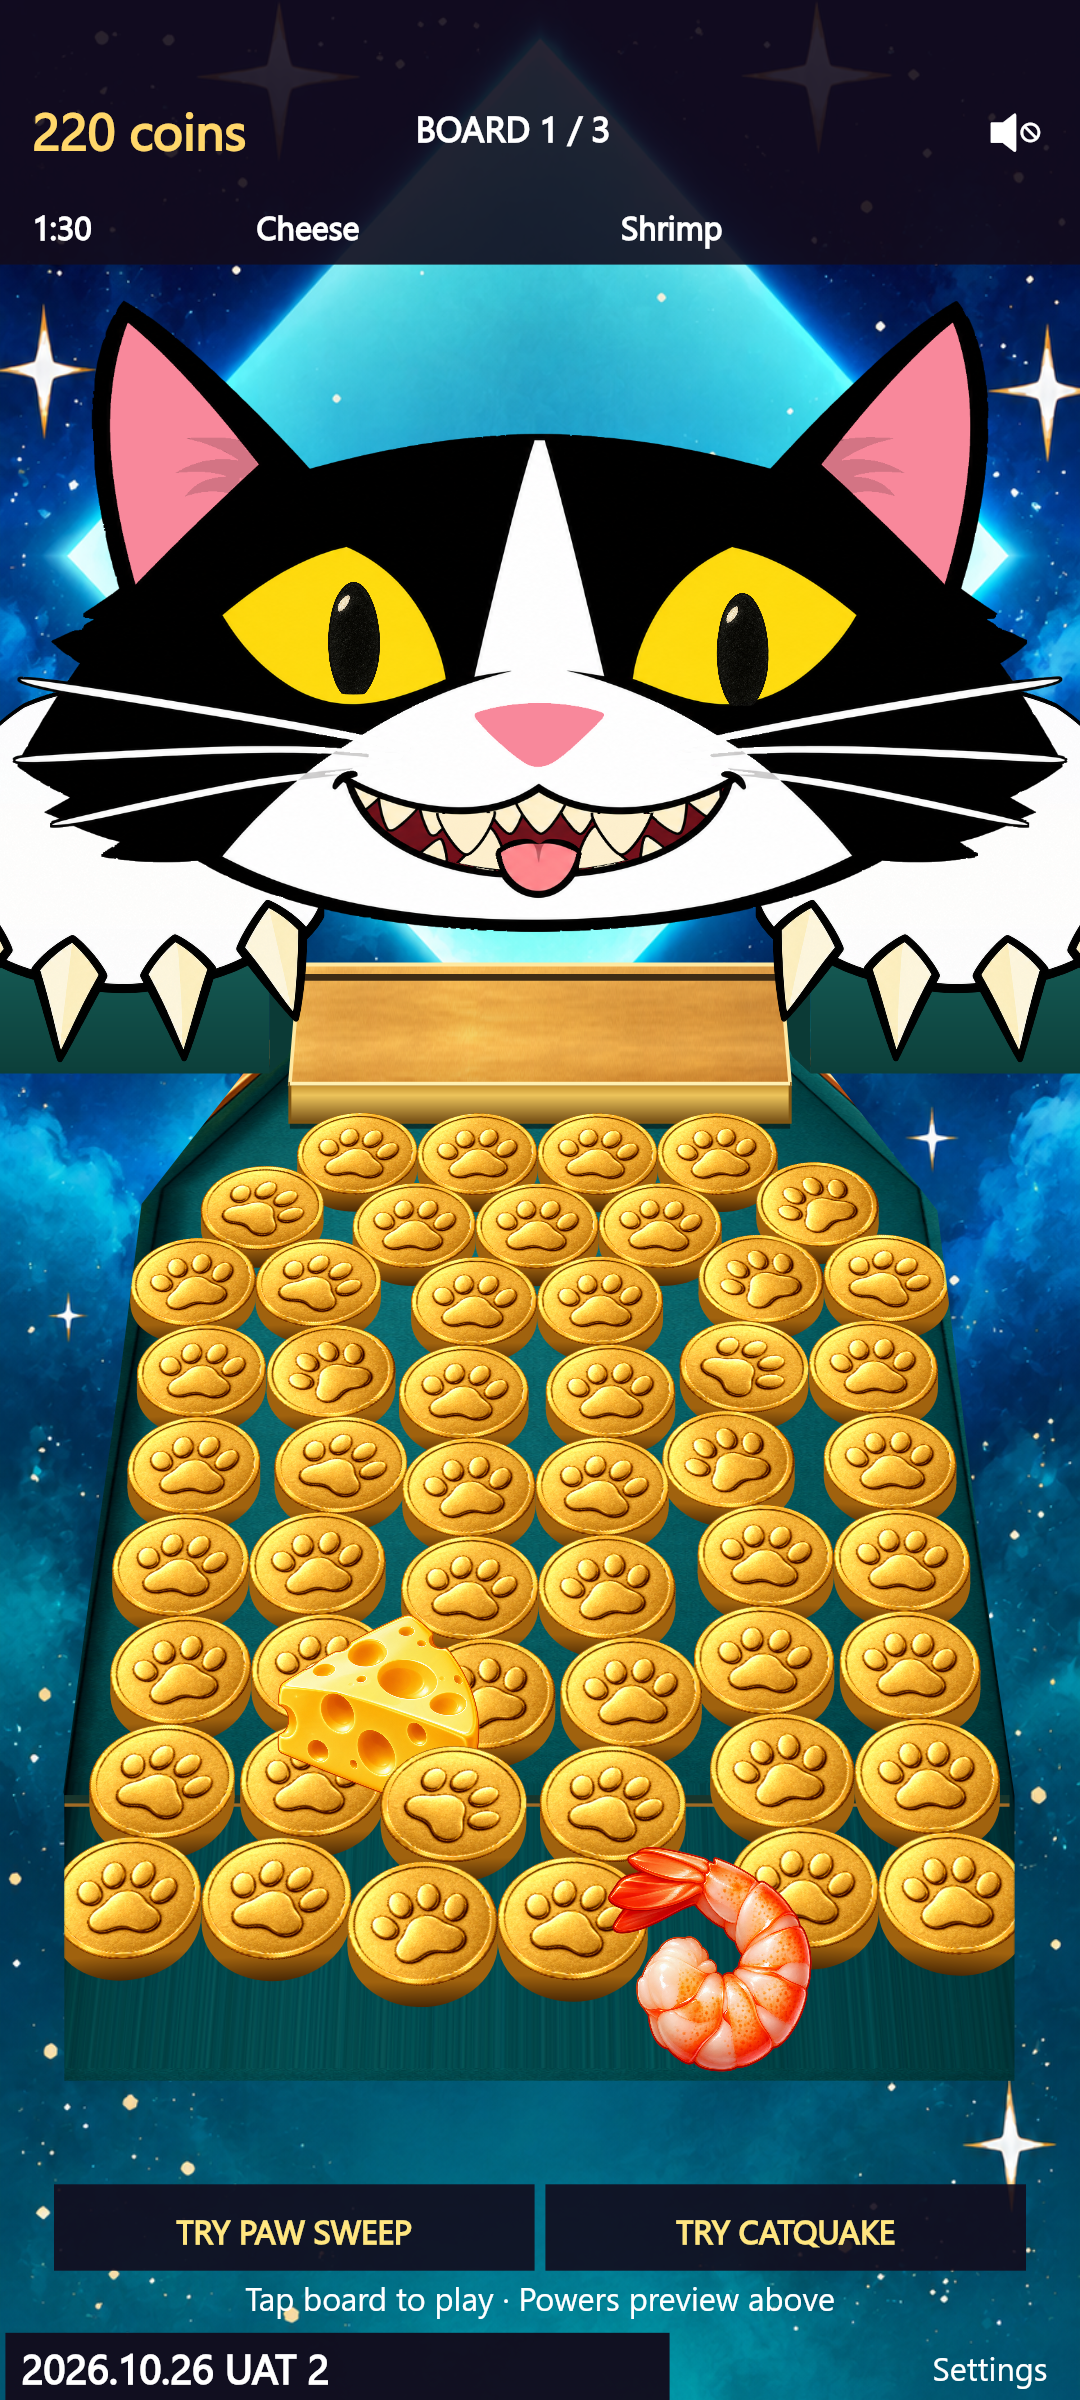
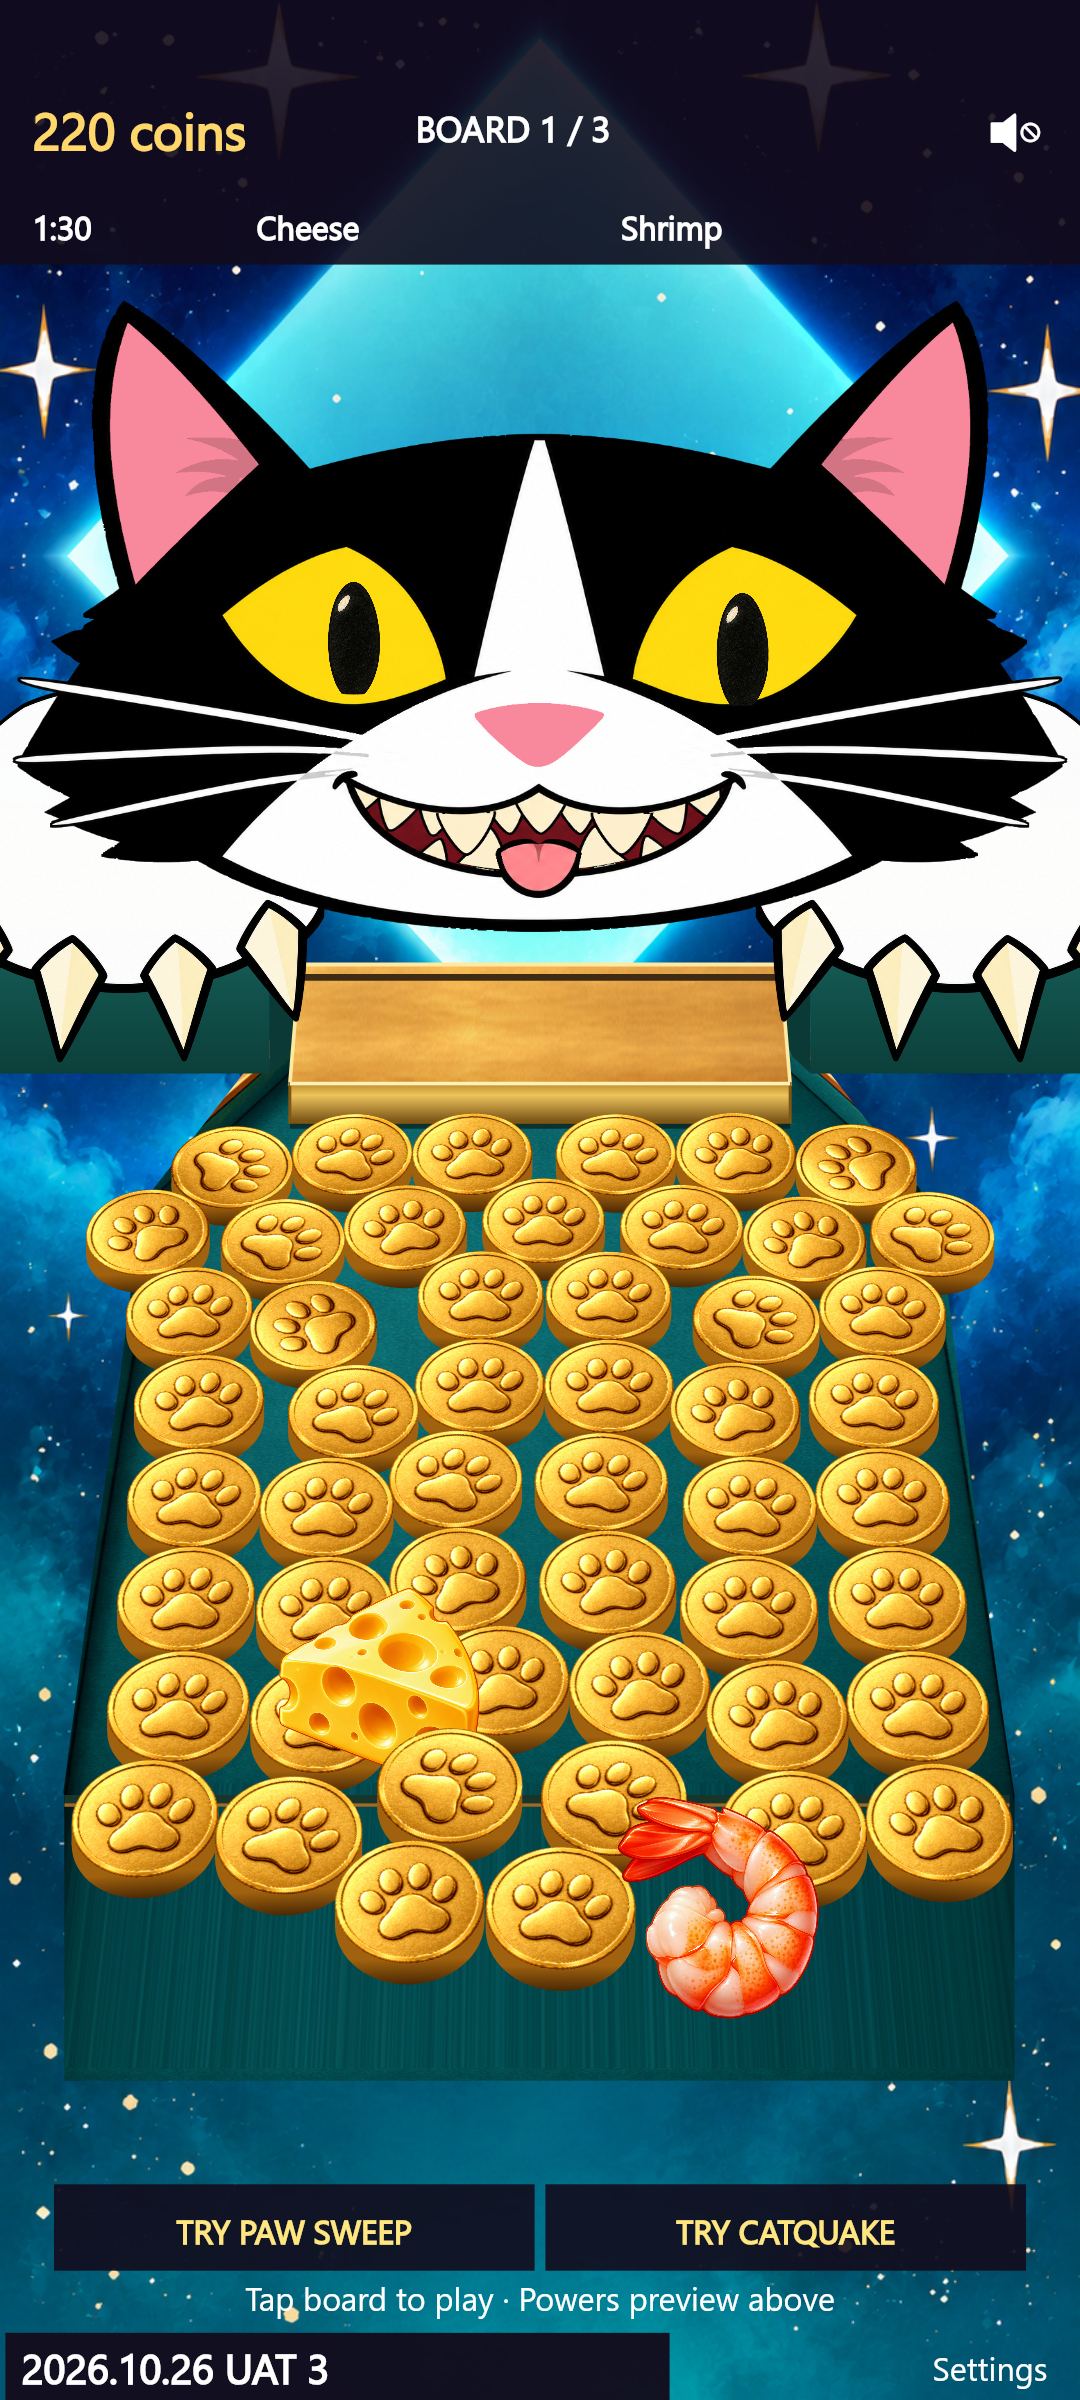
CP-21: UAT 3 - coins always whole, side gutters, rescue squeezed coins
Coins are no longer masked by the old picture's felt outline, so they
stay whole on the ledge and at the sides. Coins can slide over the left
and right edges and hang off them; a low invisible lip keeps side
losses to about 1 in 100 (pure physics lost over half). A coin squeezed
down through the table by the ledge is put back on top.

Changed region(s): [[0.0611, 0.4375, 0.9472, 0.875], [0.275, 0.9688, 0.3056, 1.0]]

diff --git a/index.html b/index.html
@@ -200,7 +200,7 @@ let holding = false, holdPos = aim, taps = [], dropTimer = 0, saveTimer = 0, las
 // test-build readout at the bottom of the screen: physics time per step (ms) and frames per second, smoothed
 const perf = { step: 0, fps: 60 };
 // when this version was published (publish_game.ps1 fills it in), shown in the readout
-const BUILD = '2026.10.26 UAT 2';
+const BUILD = '2026.10.26 UAT 3';
 
 function initPhysics() {
   // the table tilts gently down toward the player (TILT_DEG): coins at rest stay put, but a push moves them
@@ -216,12 +216,12 @@ function initPhysics() {
   const box = (hx, hy, hz, x, h, y, fr) => world.createCollider(
     RAPIER.ColliderDesc.cuboid(hx * M, hy * M, hz * M).setTranslation(x * M, h * M, y * M).setFriction(fr), fixed);
   const halfW = (T.R - T.L) / 2;
-  box(halfW + 40, 10, (T.FRONT + 100) / 2, 200, -10, (T.FRONT - 100) / 2, TABLE_FRICTION); // table top, open at the front
+  box(halfW + 40, 10, (FUNNEL_D2 + 100) / 2, 200, -10, (FUNNEL_D2 - 100) / 2, TABLE_FRICTION); box(halfW, 10, (T.FRONT - FUNNEL_D2) / 2, 200, -10, (T.FRONT + FUNNEL_D2) / 2, TABLE_FRICTION); // table top: as before beside the funnel walls, then (CP-21) ending at the open side edges
   // side walls (CP-21 funnel): straight beside the pusher, a slant, then straight to the front
   const wall=(x0,y0,x1,y1,side)=>{const len=Math.hypot(x1-x0,y1-y0),a=Math.atan2(x1-x0,y1-y0),nx=Math.cos(a)*side,nz=-Math.sin(a)*side;
    world.createCollider(RAPIER.ColliderDesc.cuboid(10*M,200*M,(len/2+2)*M).setTranslation(((x0+x1)/2+nx*10)*M,190*M,((y0+y1)/2+nz*10)*M)
     .setRotation({x:0,y:Math.sin(a/2),z:0,w:Math.cos(a/2)}).setFriction(0.2),fixed);};
-  for(const s of [-1,1]){wall(200+s*FUNNEL_BACK,-100,200+s*FUNNEL_BACK,FUNNEL_D1,s);wall(200+s*FUNNEL_BACK,FUNNEL_D1,200+s*halfW,FUNNEL_D2,s);wall(200+s*halfW,FUNNEL_D2,200+s*halfW,T.FRONT+100,s);}
+  for(const s of [-1,1]){wall(200+s*FUNNEL_BACK,-100,200+s*FUNNEL_BACK,FUNNEL_D1,s);wall(200+s*FUNNEL_BACK,FUNNEL_D1,200+s*halfW,FUNNEL_D2,s);}/* CP-21: no side walls past the funnel (open gutters) */for(const s of [-1,1]){const x=200+s*(halfW+COIN_R*0.9),hh=2,len=T.FRONT+100-FUNNEL_D2;world.createCollider(RAPIER.ColliderDesc.cuboid(2*M,hh*M,len/2*M).setTranslation(x*M,hh*M,(FUNNEL_D2+len/2)*M).setFriction(0.2),fixed);} /* CP-21: low side lip */
   box(halfW + 40, 150, 12, 200, TONGUE_H + 150, LEDGE_BACK - 12, 0.2); // upper ledge backstop prevents coins retreating into the throat
   tongue = world.createRigidBody(RAPIER.RigidBodyDesc.kinematicPositionBased()
     .setTranslation(200 * M, TONGUE_H / 2 * M, (pusherY - TONGUE_LEN / 2) * M));
@@ -835,6 +835,8 @@ function collect(id) {
 
 // A coin that went over the front edge: into the bucket (won) or past it at the corners (lost).
 function fallOff(b, x) {
+ {const t=b.rb.translation(),z=t.z/M;if(Math.abs(x-200)<=(T.R-T.L)/2-2&&z<T.FRONT-30){b.rb.setTranslation({x:(200+(x-200)*.6)*M,y:30*M,z:Math.max(z,PUSH_MAX+COIN_R+4)*M},true);b.rb.setLinvel({x:0,y:0,z:0},true);b.rb.setAngvel({x:0,y:0,z:0},true);return;}} // CP-21: rescue a coin squeezed through the table
+ if(Math.abs(x-200)>(T.R-T.L)/2-2&&b.rb.translation().z/M<T.FRONT-4)return gutterOff(b,x); // CP-21: off a side
  if(board.quakeStats&&time<=board.quakeStats.until&&['coin','silver'].includes(b.kind))board.quakeStats.fallen++;
  if(!b.boardTarget)recordedSfx.edge();
  const p=proj(x,T.FRONT);
@@ -849,6 +851,12 @@ function fallOff(b, x) {
  if(board.collected.length===BOARD.targets.length)finishBoard('won');
 }
 
+// CP-21: a coin (or prize) that drops off a side edge is lost: it falls out of sight beside the table and does not pay.
+function gutterOff(b,x){
+ const t=b.rb.translation(),at=screenOf(t.x/M,t.z/M,t.y/M);
+ const rotation={...b.rb.rotation()};falling.push({x:at.x,y:at.y,vx:(x<200?-40:40),vy:60,kind:b.kind,id:b.id,won:false,t:0,s:at.s,gutter:true,__screenStart:at,__sourceX:at.x,__sourceY:at.y,__rotation:rotation});
+ removeCoin(b);
+}
 // Lightning coin: a flash, a thunder crack, and the whole machine shakes for SHAKE_SEC.
 const SHAKE_SEC = 1.6, SHAKE_KICK = 0.22; // kick: speed (m/s) of each jolt
 // Coin shower: SHOWER_COINS free coins tumble out of the mouth across the tongue.
@@ -1959,7 +1967,7 @@ function __cachedBoardPath(){
   for(let i=__felt.length-1;i>=0;i-=58){const v=__felt[i];p.lineTo(v[2]-1,v[0]);}p.lineTo(__felt[0][2]-1,__felt[0][0]);p.closePath();__boardClipPath=p;
  }return __boardClipPath;
 }
-function __cachedSkyPath(){if(!__skyClipPath){const p=new Path2D(__cachedBoardPath());p.rect(198-__slotHalf,-1000,2*__slotHalf+4,1228);__skyClipPath=p;}return __skyClipPath;}
+function __cachedSkyPath(){if(!__skyClipPath){const p=new Path2D();p.rect(-1000,218,3000,3000);p.rect(198-__slotHalf,-1000,2*__slotHalf+4,1228);__skyClipPath=p;}return __skyClipPath;}
 function __clipDelivery(){ctx.clip(__cachedSkyPath());}
 const __oldBody=drawBody;
 function __inputInFlight(b){
@@ -1974,7 +1982,7 @@ let __boardLayer=null,__railMatte=null,__matteRatio=0,__matteH=0;
 function __drawBoardBodies(){
  const ratio=scale*devicePixelRatio;
  if(!__boardLayer||__boardLayer.width!==cv.width||__boardLayer.height!==cv.height){__boardLayer=document.createElement('canvas');__boardLayer.width=cv.width;__boardLayer.height=cv.height;}
- if(!__railMatte||ratio!==__matteRatio||H!==__matteH){__matteRatio=ratio;__matteH=H;__boardClipPath=null;__skyClipPath=null;__railMatte=document.createElement('canvas');__railMatte.width=Math.ceil(W*ratio);__railMatte.height=Math.ceil(H*ratio);const q=__railMatte.getContext('2d');q.setTransform(ratio,0,0,ratio,0,0);q.fillStyle='#fff';q.fill(__cachedBoardPath());}
+ if(!__railMatte||ratio!==__matteRatio||H!==__matteH){__matteRatio=ratio;__matteH=H;__boardClipPath=null;__skyClipPath=null;__railMatte=document.createElement('canvas');__railMatte.width=Math.ceil(W*ratio);__railMatte.height=Math.ceil(H*ratio);const q=__railMatte.getContext('2d');q.setTransform(ratio,0,0,ratio,0,0);q.fillStyle='#fff';q.fillRect(-1000,218,3000,3000);} // CP-21: coins whole everywhere in front of the slot
  const main=ctx,layer=__boardLayer.getContext('2d');layer.imageSmoothingEnabled=true;layer.imageSmoothingQuality='low';layer.setTransform(1,0,0,1,0,0);layer.clearRect(0,0,__boardLayer.width,__boardLayer.height);layer.setTransform(...__camera);layer.globalAlpha=1;
  ctx=layer;__activeCoinClip='felt';
  try{for(const b of bodies)if(!b.danceDown)drawBody(b);layer.globalCompositeOperation='destination-in';layer.drawImage(__railMatte,0,0,W,H);}

diff --git a/tickets/CP-21.md b/tickets/CP-21.md
@@ -1,6 +1,38 @@
 # CP-21 Board layout like iBear (mockups)
 
-Status: **Published to UAT: 2026.10.26 UAT 2 / APK4, numeric 20261026113204**, on Jenny's "yes" (Oct 26). Phone UAT pending. UAT 1 (20261026100613, "let's get this in UAT") failed phone UAT on the ledge; see "UAT 2" below. CP-21 became the layout lock (Oct 26); locked numbers are in SPEC.md, "Locked layout (CP-21)". Everything from "Baseline and method" down is the earlier Codex mockup round (Oct 19), kept as history.
+Status: **Published to UAT: 2026.10.26 UAT 3 / APK4, numeric 20261026134357**, on Jenny's "Let me have some time with all of this in UAT" (Oct 26). Phone UAT pending. UAT 1 (20261026100613) and UAT 2 (20261026113204) are covered below.
+
+## UAT 3 (Oct 26)
+**Jenny's phone UAT of UAT 2:**
+- "It looks really good now."
+- Coins still disappeared a bit: cut off on the ledge ([screenshot](../Screenshots/cp21-uat2-coins-cut-on-ledge.webp)) and at the sides.
+- "They should always stay whole, unless falling offscreen or behind art."
+- Coins should be able to go over the side edges and hang off naturally. A later tree mode will block the gutters, and physics should only be rigged if needed.
+- Rest is the idle pose, so no proactive change.
+
+**Changes:**
+- **Coins whole.** The coin matte was the old picture's felt outline, which no longer matched the table. Coins now show everywhere in front of the ledge's slot ([before/after](CP-21-evidence/claude-step29-coins-whole-closeup.png)). Drawing only.
+- **Side gutters.** Side walls are removed past the funnel, and the table top ends at the edge. A side drop is lost (`gutterOff`, no pay).
+  - Pure physics lost over half the coins and 0/18 games.
+  - A low invisible lip, one coin thick and 0.9 coin radius outside each edge, lets coins hang most of their width over the edge. Coins riding on others still tip off ([play frames](CP-21-evidence/claude-step30-side-lip-play.png)).
+  - Lip heights tested: 200 (≈1% lost), 4 (≈1%, chosen) and 8 (≈0%).
+- **Rescue.** About 1 in 1,000 taps, the moving ledge squeezed a coin down through the table. This also happened in UAT 2, around one coin lane near the funnel. Any coin dropping below the table well inside its edges is now put back on top, nearer the centre and in front of the ledge, and stays in play (`lost3.cjs`).
+
+**Build:** the same command as UAT 2 plus arg 42 `on` (gutters). UAT 2 source is kept in `work/cp21/uat2/`.
+
+**Validation:**
+- 18/18 no-power wins ([log](CP-21-evidence/wins-uat3.log)). Coins used: Board 1 88–132 of 220, Board 2 76–105 of 160, Board 3 106–147 of 160, so Board 3 is the tightest.
+- 13 of 1,988 coins and no prizes went off the sides.
+
+**Publication:**
+- Game-only update; APK4 is kept.
+- Backup: `uat/backups/before-CP-21-UAT3-20261026134357`, verified.
+- Production JSON/APK and the UAT APK were unchanged.
+- Fresh OneDrive download: HTTP 200, same shared item, SHA-256 matches staged `5584fc78…`. The UAT 2 records are `*-uat2.json`.
+
+**Pending:**
+- Jenny's phone UAT.
+- The "reaching" (long-arm) pose: it isn't in the game yet. The proposal is to re-fit it to the new layout, show a preview, then add it as a Settings → Developer preview. CP-21 became the layout lock (Oct 26); locked numbers are in SPEC.md, "Locked layout (CP-21)". Everything from "Baseline and method" down is the earlier Codex mockup round (Oct 19), kept as history.
 
 ## UAT 2 (Oct 26)
 **Jenny's phone UAT of UAT 1:**

diff --git a/SPEC.md b/SPEC.md
@@ -1,4 +1,4 @@
-# CP-21 PUBLISHED — 20261026113204 / APK4 (2026.10.26 UAT 2; UAT 1 was 20261026100613)
+# CP-21 PUBLISHED — 20261026134357 / APK4 (2026.10.26 UAT 3; UAT 2 20261026113204, UAT 1 20261026100613)
 
 Layout lock. The locked numbers are in "Locked layout (CP-21)" below and supersede older board geometry. Source: work/cp21/release.html. Report: tickets/CP-21.md. Phone UAT pending.
 
@@ -134,7 +134,10 @@ Layout first, art second: new art fills this layout and does not change it. Temp
 - **Mitts:** "tucked" pose for Waiting: mitts behind the cheeks, claws hooked 30 units over the inner front corner of each armrest (MITT_HOOK 30, MITT_D 228, MITT_LIFT 30, MITT_W 182), no cuffs or black arms showing. Teal/brass armrests either side of the narrow back (ARM_H 70, ARM_FRONT 240). "Reaching" (mitts out at the corners with arms) is kept as a second pose for later use.
 - **Coins:** approved big-paw face, colour C: contrast 1.3 / saturation 0.9, a lighter, softer gold (UAT 2; UAT 1 was 1.6 / 1.25, too yellow); drawn twice as thick as the physics (COIN_LOOK 2); dark gold sides, bright faces. COIN_R 26 (physics unchanged).
 - **Quake coin:** 20% wider than a paw coin (QUAKE_R 1.2, physics too), same thickness as paw coins, dark gold side with a blue band matching the face's dark blue.
-- **Balance (desktop, Oct 26, UAT 2):** 18/18 no-power wins over 3 boards, 3 seeds, 0.22/0.4 s taps; 0 of 720 taps fall through the ledge (tickets/CP-21-evidence/wins-uat2.json, fallthrough-uat2.log).
+- **Coins always whole (UAT 3):** coins are only hidden when they slide under the back wall (in front of the ledge's slot everything shows), fall off an edge, or are behind art. The old picture's felt outline no longer masks them.
+- **Side gutters (UAT 3, Jenny):** coins can slide over the left and right edges from where the table reaches full width to the front. The funnel walls beside the ledge stay. A low invisible lip, one coin thick, runs 0.9 coin radius outside each edge, so a coin hangs most of its width over the edge, while coins riding on others can tip off. A coin or prize dropping off a side is lost and doesn't pay. Pure physics without the lip lost over half the coins (0/18 wins). A later tree mode (like Bear Coin) may block the gutters.
+- **Rescue:** a coin squeezed down through the table well inside its edges (about 1 in 1,000 taps) is put back on top of the table instead of vanishing.
+- **Balance (desktop, Oct 26, UAT 3):** 18/18 no-power wins over 3 boards, 3 seeds, 0.22/0.4 s taps. Coins used: Board 1 88–132 of 220, Board 2 76–105 of 160, Board 3 106–147 of 160 (tightest). 13 of 1,988 coins and no prizes went off the sides (tickets/CP-21-evidence/wins-uat3.log).
 - **Next (art pass, not layout):** rounder cat head or chin fluff to fill the gap between chin and ledge; ledge look; extended felt streaks; Jenny prefers the Rest face to the Waiting face, so Waiting will change later.
 
 ## Coin entry and input
